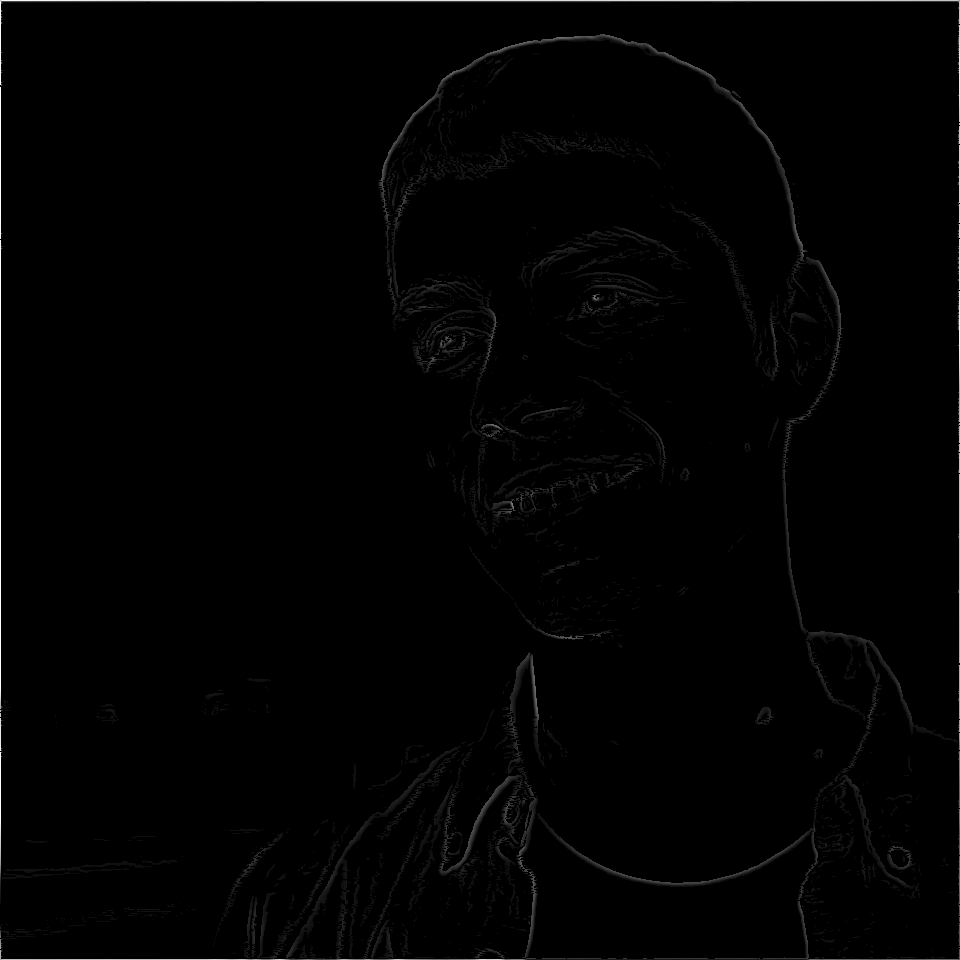
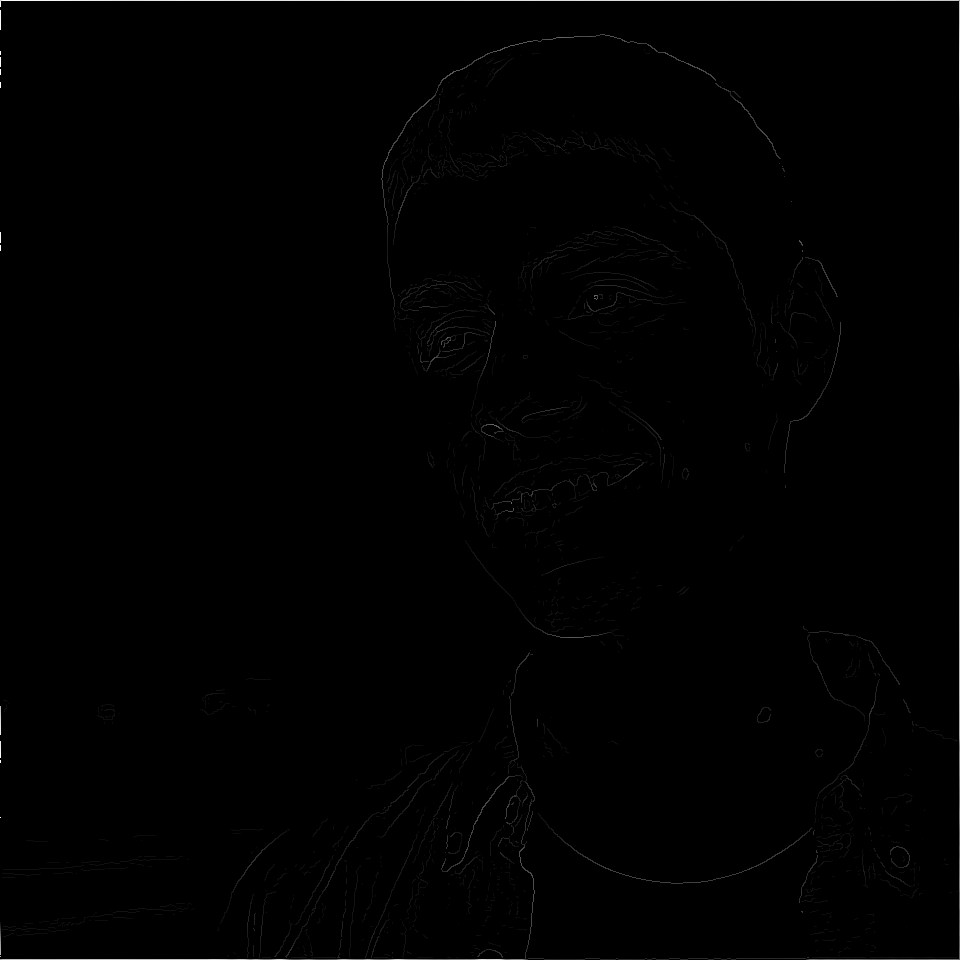
Fixed bug where edges were not properly thinned.

diff --git a/net_canny.py b/net_canny.py
@@ -12,11 +12,14 @@ class Net(nn.Module):
 
         filter_size = 5
         generated_filters = gaussian(filter_size,std=1.0).reshape([1,filter_size])
+        # generated_filters = gaussian(filter_size,std=0.00001).reshape([1,filter_size])
 
         self.gaussian_filter_horizontal = nn.Conv2d(in_channels=1, out_channels=1, kernel_size=(1,filter_size), padding=(0,filter_size/2))
         self.gaussian_filter_horizontal.weight.data.copy_(torch.from_numpy(generated_filters))
+        self.gaussian_filter_horizontal.bias.data.copy_(torch.from_numpy(np.array([0.0])))
         self.gaussian_filter_vertical = nn.Conv2d(in_channels=1, out_channels=1, kernel_size=(filter_size,1), padding=(filter_size/2,0))
         self.gaussian_filter_vertical.weight.data.copy_(torch.from_numpy(generated_filters.T))
+        self.gaussian_filter_vertical.bias.data.copy_(torch.from_numpy(np.array([0.0])))
 
         sobel_filter = np.array([[1, 0, -1],
                                  [2, 0, -2],
@@ -24,17 +27,19 @@ class Net(nn.Module):
 
         self.sobel_filter_horizontal = nn.Conv2d(in_channels=1, out_channels=1, kernel_size=sobel_filter.shape, padding=sobel_filter.shape[0]/2)
         self.sobel_filter_horizontal.weight.data.copy_(torch.from_numpy(sobel_filter))
+        self.sobel_filter_horizontal.bias.data.copy_(torch.from_numpy(np.array([0.0])))
         self.sobel_filter_vertical = nn.Conv2d(in_channels=1, out_channels=1, kernel_size=sobel_filter.shape, padding=sobel_filter.shape[0]/2)
         self.sobel_filter_vertical.weight.data.copy_(torch.from_numpy(sobel_filter.T))
+        self.sobel_filter_vertical.bias.data.copy_(torch.from_numpy(np.array([0.0])))
 
         # filters were flipped manually
         filter_0 = np.array([   [ 0, 0, 0],
-                                [ 0, 1,-1],
+                                [ 0, 1, -1],
                                 [ 0, 0, 0]])
 
-        filter_45 = np.array([  [ 0, 0, 0],
+        filter_45 = np.array([  [0, 0, 0],
                                 [ 0, 1, 0],
-                                [ 0, 0,-1]])
+                                [ 0, 0, -1]])
 
         filter_90 = np.array([  [ 0, 0, 0],
                                 [ 0, 1, 0],
@@ -56,7 +61,7 @@ class Net(nn.Module):
                                 [ 0, 1, 0],
                                 [ 0, 0, 0]])
 
-        filter_315 = np.array([ [ 0, 0,-1],
+        filter_315 = np.array([ [ 0, 0, -1],
                                 [ 0, 1, 0],
                                 [ 0, 0, 0]])
 
@@ -64,8 +69,9 @@ class Net(nn.Module):
         self.angle_filters_180_315 = [filter_180, filter_225, filter_270, filter_315]
 
         self.directional_filter_0 = nn.Conv2d(in_channels=1, out_channels=1, kernel_size=filter_0.shape, padding=filter_0.shape[0] / 2)
+        self.directional_filter_0.bias.data.copy_(torch.from_numpy(np.array([0.0])))
         self.directional_filter_1 = nn.Conv2d(in_channels=1, out_channels=1, kernel_size=filter_0.shape, padding=filter_0.shape[0] / 2)
-
+        self.directional_filter_1.bias.data.copy_(torch.from_numpy(np.array([0.0])))
 
     def forward(self, img):
         img_r = img[:,0:1]
@@ -95,8 +101,9 @@ class Net(nn.Module):
         grad_mag += torch.sqrt(grad_x_g**2 + grad_y_g**2)
         grad_mag += torch.sqrt(grad_x_b**2 + grad_y_b**2)
         grad_orientation = (torch.atan2(grad_y_r+grad_y_g+grad_y_b, grad_x_r+grad_x_g+grad_x_b) * (180.0/3.14159))
-        grad_orientation[grad_orientation<0] = 360+grad_orientation
-        grad_orientation = grad_orientation % 180.0
+        grad_orientation += 180.0
+        # grad_orientation[grad_orientation<0] = 360+grad_orientation
+        # grad_orientation = grad_orientation % 180.0
         grad_orientation =  torch.round( grad_orientation / 45.0 ) * 45.0
 
         # THIN EDGES (NON-MAX SUPPRESSION)
@@ -115,10 +122,14 @@ class Net(nn.Module):
             self.directional_filter_1.weight.data.copy_(torch.from_numpy(angle_filter_1))
             diff_1 = self.directional_filter_1(grad_mag)
 
+            diff = torch.min(diff_0,diff_1)
+
+            diff_0 = diff.clone()
             diff_0[grad_orientation!=angle_0] = 0.0
+            diff_1 = diff.clone()
             diff_1[grad_orientation!=angle_1] = 0.0
 
-            diff = diff_0+diff_1
+            diff = torch.max(diff_0, diff_1)
 
             is_maxes += [diff>0.0]
 
@@ -132,10 +143,10 @@ class Net(nn.Module):
         thresholded = thin_edges.clone()
         thresholded[thin_edges<self.threshold] = 0.0
 
-        assert grad_mag.size() == grad_orientation.size() == thin_edges.size() == thresholded.size()
-
         early_threshold = grad_mag.clone()
         early_threshold[grad_mag<self.threshold] = 0.0
+
+        assert grad_mag.size() == grad_orientation.size() == thin_edges.size() == thresholded.size() == early_threshold.size()
 
         return blurred_img, grad_mag, grad_orientation, thin_edges, thresholded, early_threshold
 

diff --git a/canny.py b/canny.py
@@ -26,6 +26,18 @@ def canny(raw_img, use_cuda=False):
     imsave('thin_edges.png', thresholded.data.cpu().numpy()[0, 0])
     imsave('thresholded.png', early_threshold.data.cpu().numpy()[0, 0])
 
+    plt.imshow(thresholded.data.cpu().numpy()[0, 0], interpolation='None', cmap='gray')
+    plt.show()
+
 if __name__ == '__main__':
     img = imread('fb_profile.jpg') / 255.0
+
+    # img = np.array([    [0, 0, 0, 0, 0],
+    #                     [0, 0, 0, 0, 0],
+    #                     [0, 0, 0, 0, 0],
+    #                     [0, 0, 1, 0, 0],
+    #                     [0, 0, 0, 0, 0]     ])
+    # img = np.stack([img,img,img]).transpose([1,2,0])
+
+
     canny(img, use_cuda=False)
